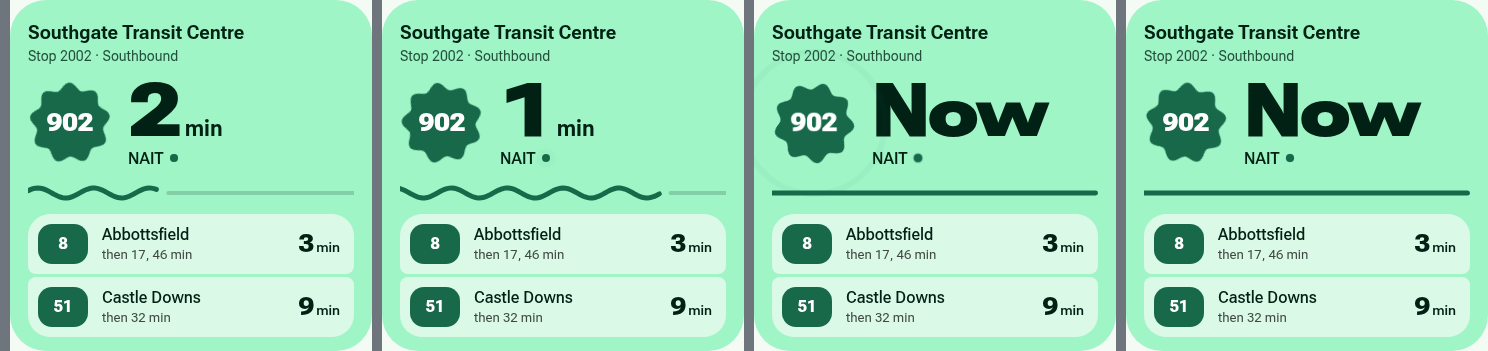
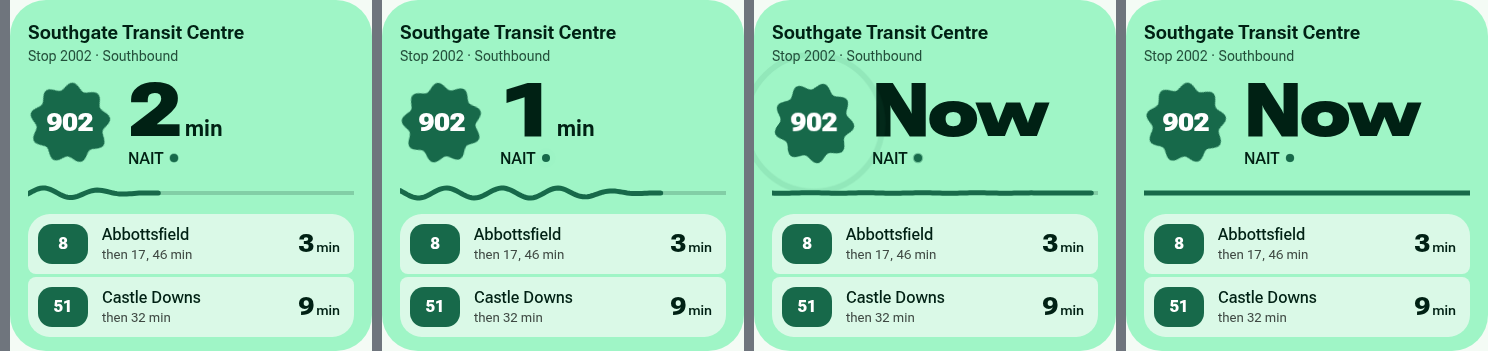
docs(design): taper the wave into the track line

diff --git a/docs/design-samples/5-material-expressive-v2.html b/docs/design-samples/5-material-expressive-v2.html
@@ -186,8 +186,14 @@ function draw() {
   amp += ((m ? 5 : 0) - amp) * (still ? 1 : .08);
   phase += still ? 0 : .08;
   const end = cur * W, pts = [];
-  for (let x = 0; x <= end; x += 2.5) pts.push((x ? "L" : "M") + x.toFixed(1) + " " + (11 + amp * Math.sin(x / 9 - phase)).toFixed(2));
-  const d = pts.join(""), track = end < W - 10 ? `M${(end + 10).toFixed(1)} 11H${W}` : "";
+  // The wiggle tapers to flat over its last stretch, so it runs straight into the track line.
+  const taper = Math.min(end, 110);
+  for (let x = 0; x <= end; x += 2.5) {
+    const e = Math.min(1, (end - x) / taper), env = e * e * (3 - 2 * e);
+    pts.push((x ? "L" : "M") + x.toFixed(1) + " " + (11 + amp * env * Math.sin(x / 9 - phase)).toFixed(2));
+  }
+  pts.push(`L${end.toFixed(1)} 11`);
+  const d = pts.join(""), track = end < W ? `M${end.toFixed(1)} 11H${W}` : "";
   document.querySelectorAll(".wave-path").forEach((p) => p.setAttribute("d", d));
   document.querySelectorAll(".wave .track").forEach((p) => p.setAttribute("d", track));
   requestAnimationFrame(draw);
